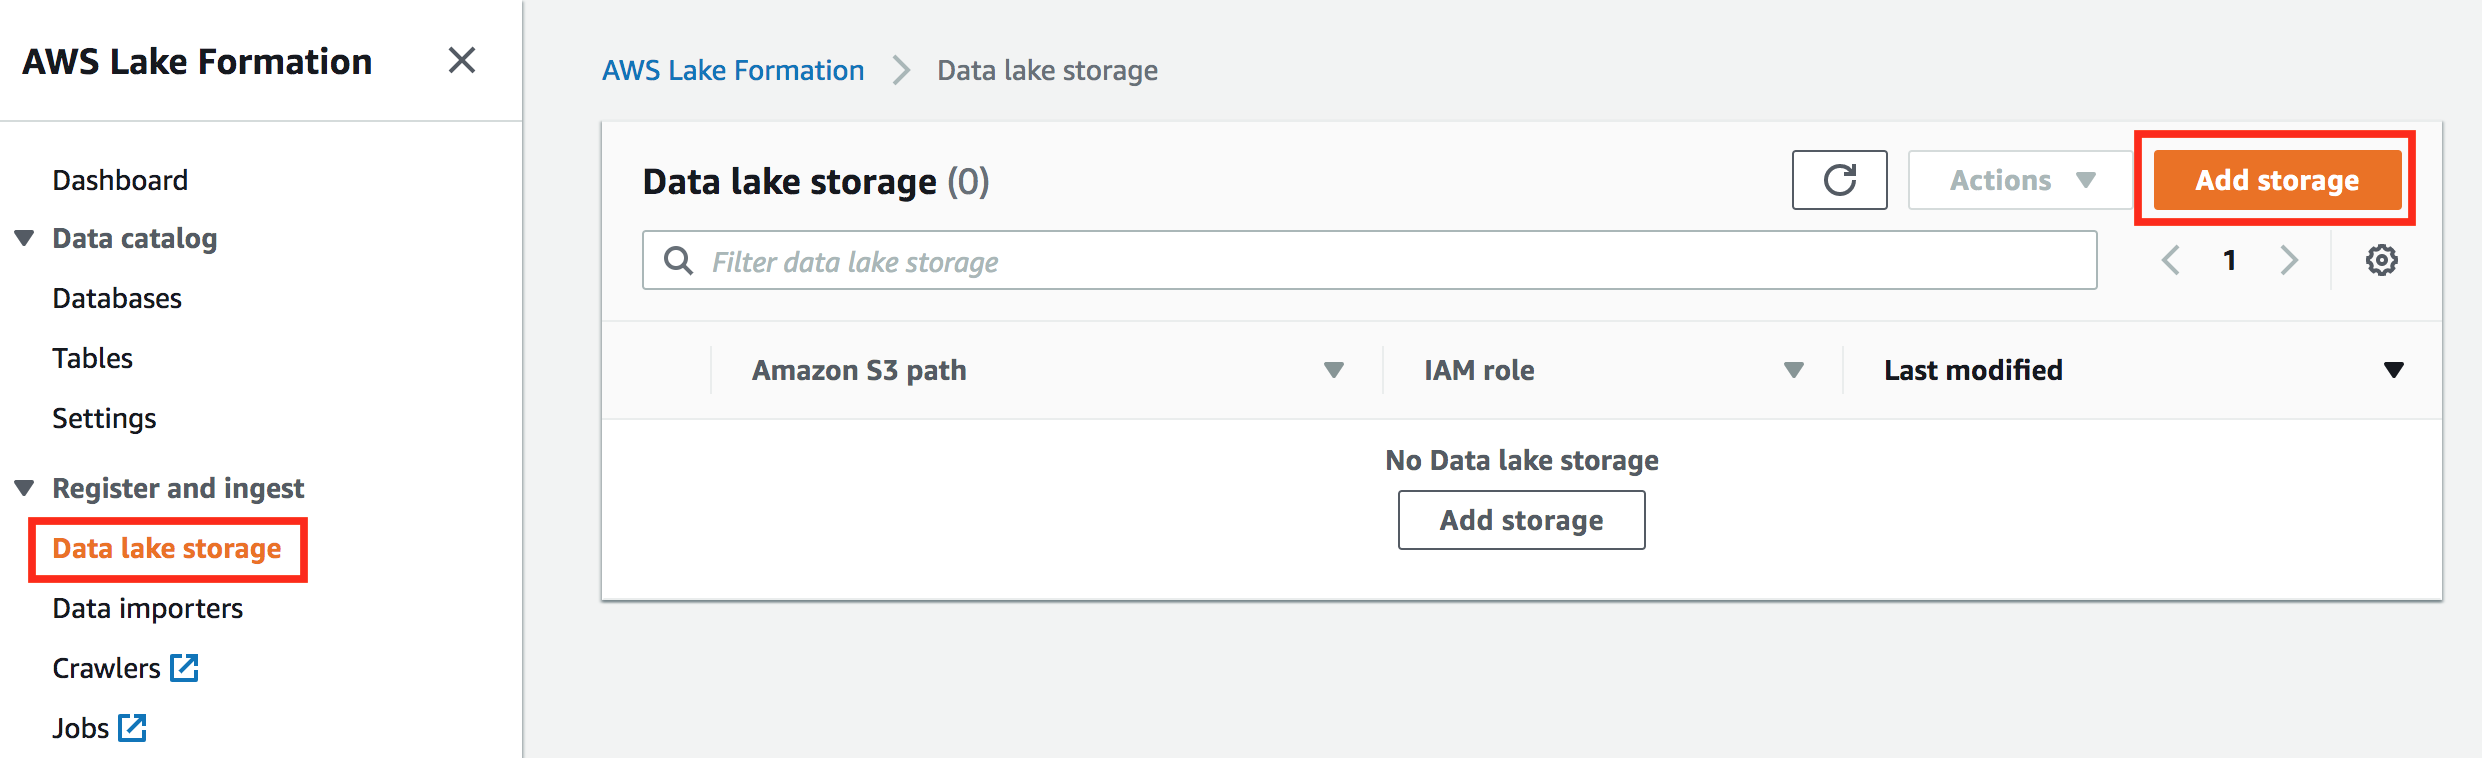
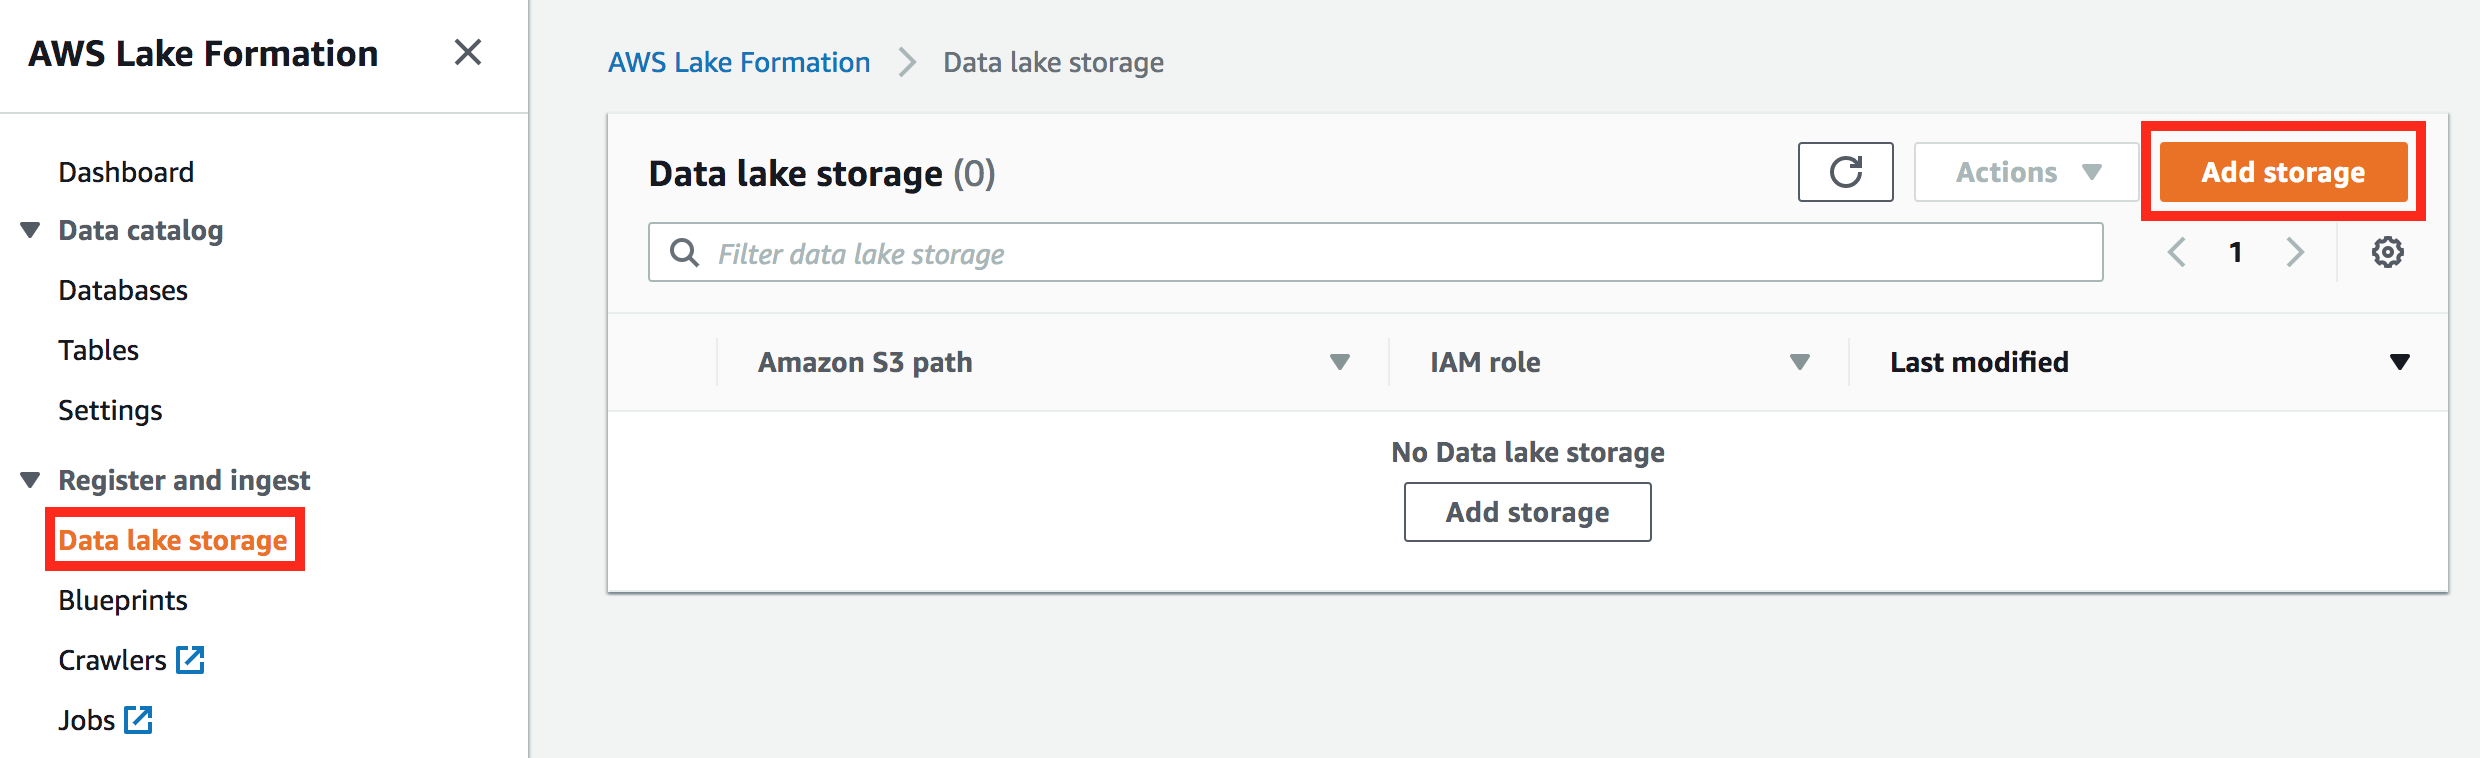
updated workshop content and CFN template

diff --git a/website/content/40-exercises/401-intermediate/4014-blueprints.md b/website/content/40-exercises/401-intermediate/4014-blueprints.md
@@ -1,0 +1,56 @@
++++
+title = "Blueprints"
+chapter = true
+weight = 4014
++++
+
+<div style="text-align: justify">
+    Blueprints enable data ingestion from common sources using automated workflows. At high level, Lake Formation
+    provides two type of blueprints:
+    <ul>
+        <li><b>Database blueprints</b>: This blueprints help ingest data from MySQL, PostgreSQL, Oracle, and SQL server
+            databases to your data lake. You can ingest either as bulk load snapshot, or incrementally load new data
+            over time.
+        </li>
+        <li><b>Log file blueprints</b>: Ingest data from popular log file formats from AWS CloudTrail, Elastic Load
+            Balancer, and Application Load Balancer logs.
+        </li>
+    </ul>
+</div>
+<div style="text-align: left">
+    In this exercise, we will use database snapshot as blueprint and will ingest entire <b>TPC</b> database to your data
+    lake.
+    <ol>
+        <li>Click on the <b>Blueprints</b> option from the left navigation panel and then click on <b>Use blueprint</b>
+            button.<img
+                    src="/images/blueprint1.png" style="margin:15px 0px; border:1px solid black"/>
+        </li>
+        <li>Select <b>Database snapshot</b> as the blueprint type.<img src="/images/blueprint2.png"
+                                                                       style="margin:15px 0px; border:1px solid black"/>
+        </li>
+        <li>For the AWS Glue <b>Database connection</b> name, choose <b>TPCGlueConnector</b> which is created through
+            CloudFormation to access the TPC database running on RDS.
+        </li>
+        <li>For the <b>Source data path</b>, enter <b>"tpc/"</b>. Leave <b>Exclude pattern</b> options as default.<img
+                src="/images/blueprint3.png" style="margin:15px 0px; border:1px solid black"/></li>
+        <li>Under <b>Import target</b> section, choose <b>tpc</b> as the target database. For the <b>Data lake
+            location</b>, choose the S3 path which you used in the <b>Data lake storage</b> section. For Data format,
+            choose <b>Parquet</b> as the format in which the data is written.<img src="/images/blueprint4.png"
+                                                                                  style="margin:15px 0px; border:1px solid black"/>
+        </li>
+        <li>Now move to <b>Import options</b>, enter a workflow name <b>tpc-ingest</b>. Choose <b>LF-GlueServiceRole</b>
+            for the IAM role and enter "tpc" as the <b>Table prefix</b>. Leave the rest of the fields as default.<img
+                    src="/images/blueprint5.png" style="margin:15px 0px; border:1px solid black"/></li>
+        <li>Choose <b>Create</b>. Wait for the status of the blueprints to go from Creating to <b>Successfully
+            created...</b> message.<img
+                src="/images/blueprint6.png" style="margin:15px 0px; border:1px solid black"/></li>
+        <li>Now select the newly created workflow <b>tpc-ingest</b> and start the workflow by selecting <b>Start</b>
+            option from the <b>Actions</b> drop-down.<img
+                    src="/images/blueprint7.png" style="margin:15px 0px; border:1px solid black"/></li>
+        <li>It will take few minutes to ingest the TPC database to your data lake. During this phase, the <b>Last run
+            status</b> column will reflect different phases of ingestion process, for example: Discovering, Importing, COMPLETED.
+        </li>
+        <li>Move to the next chapter when the blueprint <b>tpc-ingest</b> is completed successfully.<img
+                src="/images/blueprint8.png" style="margin:15px 0px; border:1px solid black"/></li>
+    </ol>
+</div>

diff --git a/website/content/40-exercises/401-intermediate/4011-admin-db-creator.md b/website/content/40-exercises/401-intermediate/4011-admin-db-creator.md
@@ -14,7 +14,8 @@ weight = 4011
             Formation resource. Click on the <b>Add administrators</b> button to create administrator for your Data
             Lake.
             <img src="/images/welcometolf.png" style="margin:15px 0px; border:1px solid black"/></li>
-        <li>Select <b>admin</b> IAM user from the drop down list. For the rest of workshop, this user will be considered as a data lake administrator and will have full access to data lake.</li>
+        <li>Select <b>admin</b> IAM user from the drop down list. For the rest of workshop, this user will be considered as a data lake administrator and will have full access to data lake.
+            <img src="/images/datalakeadmin.png" style="margin:15px 0px; border:1px solid black"/></li>
         <li>Log out from the Lake Formation console.</li>
     </ol>
 </div>
